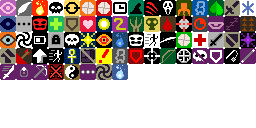
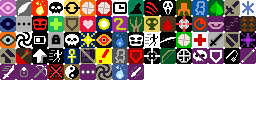
idea by u/Demonetizing_YT_GUY: wakizashi, a rapid and accurate armor-piercing knife

Changed region(s): [[0.5, 0.5, 0.5625, 0.625]]

diff --git a/core/src/main/java/com/shatteredpixel/shatteredpixeldungeon/items/weapon/melee/Wakizashi.java b/core/src/main/java/com/shatteredpixel/shatteredpixeldungeon/items/weapon/melee/Wakizashi.java
@@ -1,0 +1,138 @@
+/*
+ * Pixel Dungeon
+ * Copyright (C) 2012-2015 Oleg Dolya
+ *
+ * Shattered Pixel Dungeon
+ * Copyright (C) 2014-2024 Evan Debenham
+ *
+ * Community Pixel Dungeon
+ * Copyright (C) 2024 Trashbox Bobylev and Pixel Dungeon's community
+ *
+ * This program is free software: you can redistribute it and/or modify
+ * it under the terms of the GNU General Public License as published by
+ * the Free Software Foundation, either version 3 of the License, or
+ * (at your option) any later version.
+ *
+ * This program is distributed in the hope that it will be useful,
+ * but WITHOUT ANY WARRANTY; without even the implied warranty of
+ * MERCHANTABILITY or FITNESS FOR A PARTICULAR PURPOSE.  See the
+ * GNU General Public License for more details.
+ *
+ * You should have received a copy of the GNU General Public License
+ * along with this program.  If not, see <http://www.gnu.org/licenses/>
+ */
+
+package com.shatteredpixel.shatteredpixeldungeon.items.weapon.melee;
+
+import com.shatteredpixel.shatteredpixeldungeon.Assets;
+import com.shatteredpixel.shatteredpixeldungeon.actors.Char;
+import com.shatteredpixel.shatteredpixeldungeon.actors.buffs.Buff;
+import com.shatteredpixel.shatteredpixeldungeon.actors.buffs.FlavourBuff;
+import com.shatteredpixel.shatteredpixeldungeon.actors.hero.Hero;
+import com.shatteredpixel.shatteredpixeldungeon.messages.Messages;
+import com.shatteredpixel.shatteredpixeldungeon.sprites.ItemSpriteSheet;
+import com.shatteredpixel.shatteredpixeldungeon.ui.BuffIndicator;
+import com.watabou.noosa.audio.Sample;
+import com.watabou.utils.Bundle;
+import com.watabou.utils.Random;
+
+public class Wakizashi extends MeleeWeapon {
+
+    {
+        image = ItemSpriteSheet.WAKIZASHI;
+        hitSound = Assets.Sounds.HIT_STAB;
+        hitSoundPitch = 1.3f;
+
+        tier = 4;
+        DLY = 1/3f; //3x speed
+        ACC = 1.32f; //+32% boost to accuracy
+    }
+
+    @Override
+    public int min(int lvl) {
+        return 1 +  //1 base, down from 4
+                lvl; //same level scaling
+    }
+
+    @Override
+    public int max(int lvl) {
+        return  Math.round(1.25f*(tier+1)) +     //6 base, down from 25
+                lvl*Math.round(0.4f*(tier+1));  //+2 per level, down from +5
+    }
+
+    @Override
+    public int proc(Char attacker, Char defender, int damage) {
+        damage += (int) Math.ceil(defender.drRoll()/3f);
+        LethalCombo lethalCombo;
+        if ((lethalCombo = attacker.buff(LethalCombo.class)) != null){
+            damage += lethalCombo.hits;
+            lethalCombo.hits++;
+            Sample.INSTANCE.play(hitSound, 1, (float) (Random.Float(0.87f, 1.15f) * Math.pow(1.1f, lethalCombo.hits) * hitSoundPitch));
+        }
+        return super.proc(attacker, defender, damage);
+    }
+
+    @Override
+    protected void duelistAbility(Hero hero, Integer target) {
+        beforeAbilityUsed(hero, null);
+        //1 turn less as using the ability is instant
+        LethalCombo lethalCombo;
+        int hits = 0;
+        if ((lethalCombo = hero.buff(LethalCombo.class)) != null){
+            hits = lethalCombo.hits/2;
+        }
+        Buff.affect(hero, LethalCombo.class, 2+buffedLvl()/2f).hits = hits;
+        hero.sprite.operate(hero.pos);
+        hero.next();
+        afterAbilityUsed(hero);
+    }
+
+    @Override
+    public String abilityInfo() {
+        if (levelKnown){
+            return Messages.get(this, "ability_desc", Messages.decimalFormat("#.#", 3+buffedLvl()/2f));
+        } else {
+            return Messages.get(this, "typical_ability_desc", 3);
+        }
+    }
+
+    public static class LethalCombo extends FlavourBuff {
+
+        {
+            announced = true;
+            type = buffType.POSITIVE;
+        }
+
+        public int hits;
+
+        @Override
+        public int icon() {
+            return BuffIndicator.DUEL_LETHAL;
+        }
+
+        @Override
+        public float iconFadePercent() {
+            return Math.max(0, (3 - visualcooldown()) / 3);
+        }
+
+        @Override
+        public String desc() {
+            return Messages.get(this, "desc", dispTurns(), hits);
+        }
+
+        private static final String HIT_COUNT = "hit_count";
+
+        @Override
+        public void storeInBundle(Bundle bundle) {
+            super.storeInBundle(bundle);
+            bundle.put(HIT_COUNT, hits);
+        }
+
+        @Override
+        public void restoreFromBundle(Bundle bundle) {
+            super.restoreFromBundle(bundle);
+            hits = bundle.getInt(HIT_COUNT);
+        }
+    }
+
+}

diff --git a/core/src/main/java/com/shatteredpixel/shatteredpixeldungeon/sprites/ItemSpriteSheet.java b/core/src/main/java/com/shatteredpixel/shatteredpixeldungeon/sprites/ItemSpriteSheet.java
@@ -266,6 +266,7 @@ public class ItemSpriteSheet {
 	public static final int CROSSBOW        = WEP_TIER4+5;
 	public static final int KATANA          = WEP_TIER4+6;
 	public static final int ALCHEMICAL_SWORD= WEP_TIER4+7;
+	public static final int WAKIZASHI       = WEP_TIER4-1;
 	static{
 		assignItemRect(LONGSWORD,       15, 15);
 		assignItemRect(BATTLE_AXE,      16, 16);
@@ -275,6 +276,7 @@ public class ItemSpriteSheet {
 		assignItemRect(CROSSBOW,        15, 15);
 		assignItemRect(KATANA,          15, 16);
 		assignItemRect(ALCHEMICAL_SWORD,15, 16);
+		assignItemRect(WAKIZASHI,       12, 12);
 	}
 
 	private static final int WEP_TIER5      =                               xy(1, 9);   //8 slots

diff --git a/core/src/main/java/com/shatteredpixel/shatteredpixeldungeon/items/Generator.java b/core/src/main/java/com/shatteredpixel/shatteredpixeldungeon/items/Generator.java
@@ -392,9 +392,10 @@ public class Generator {
 					AssassinsBlade.class,
 					Crossbow.class,
 					Katana.class,
-					AlchemicalAkrafena.class
+					AlchemicalAkrafena.class,
+					Wakizashi.class
 			};
-			WEP_T4.defaultProbs = new float[]{ 2, 2, 2, 2, 2, 2, 2, 2 };
+			WEP_T4.defaultProbs = new float[]{ 2, 2, 2, 2, 2, 2, 2, 2, 2 };
 			WEP_T4.probs = WEP_T4.defaultProbs.clone();
 			
 			WEP_T5.classes = new Class<?>[]{

diff --git a/core/src/main/java/com/shatteredpixel/shatteredpixeldungeon/ui/BuffIndicator.java b/core/src/main/java/com/shatteredpixel/shatteredpixeldungeon/ui/BuffIndicator.java
@@ -124,6 +124,7 @@ public class BuffIndicator extends Component {
 	public static final int DUEL_COMBO  = 69;
 	public static final int DAZE        = 70;
 	public static final int FROSTBURN   = 71;
+	public static final int DUEL_LETHAL = 72;
 
 	public static final int SIZE_SMALL  = 7;
 	public static final int SIZE_LARGE  = 16;
